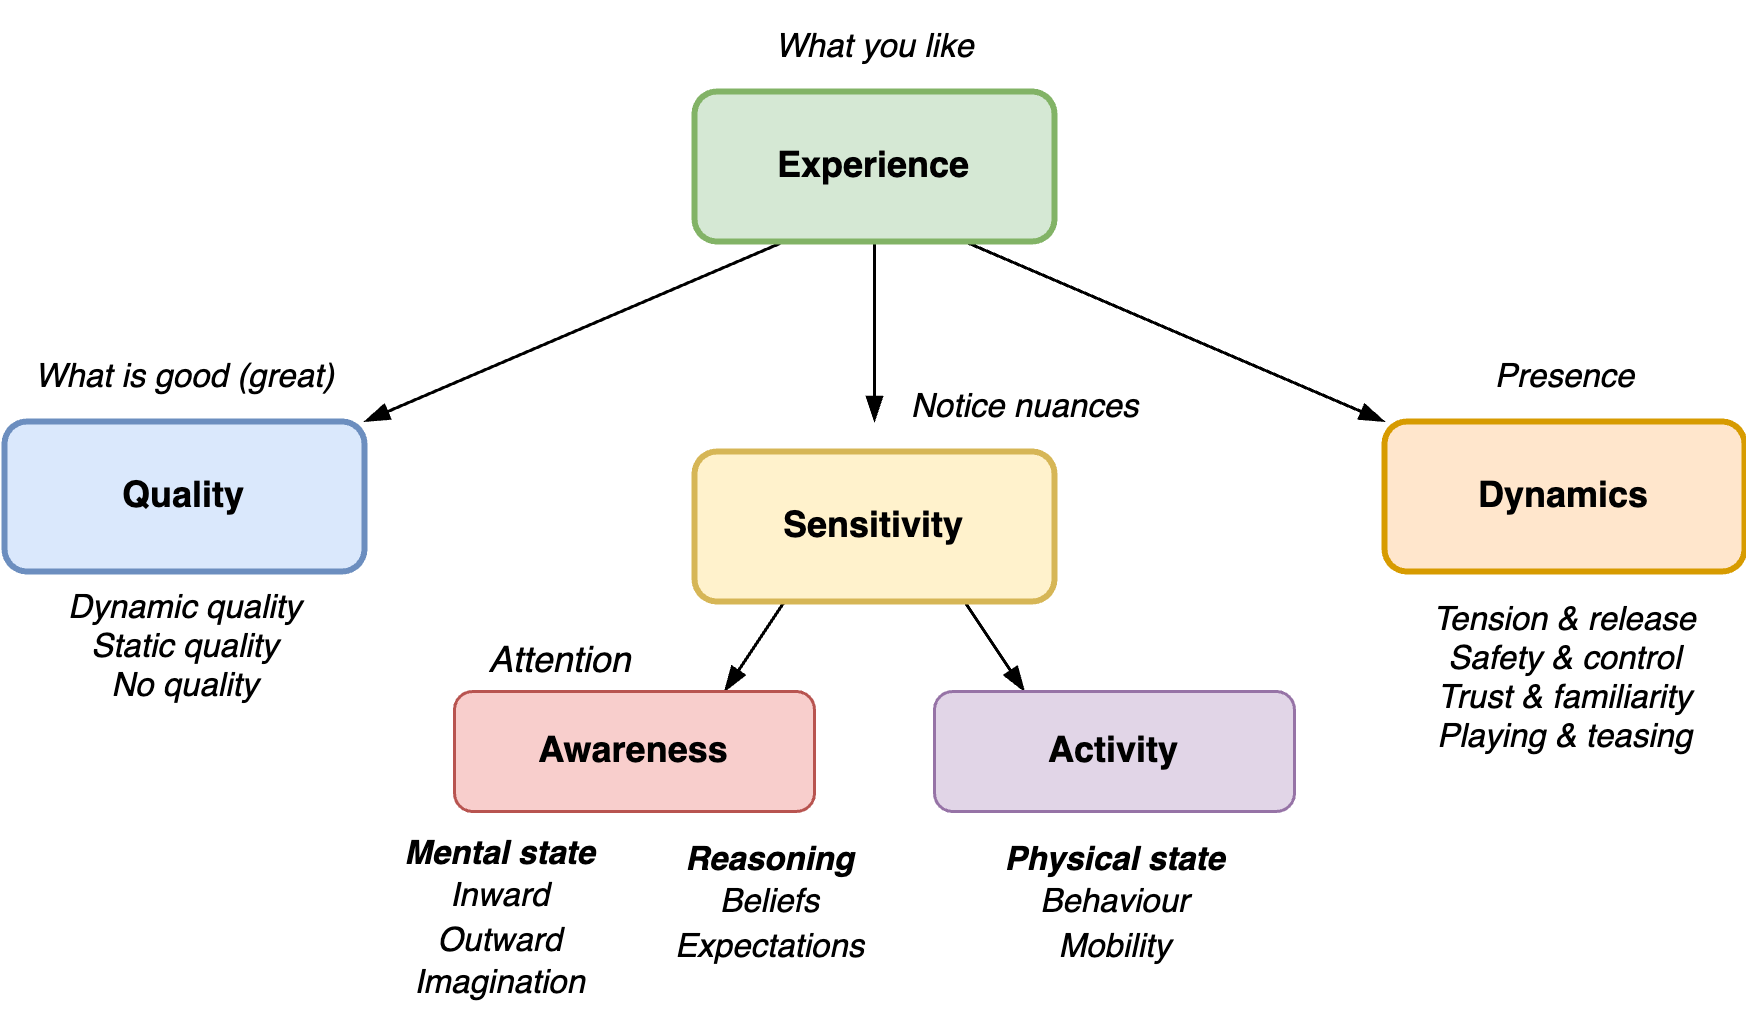
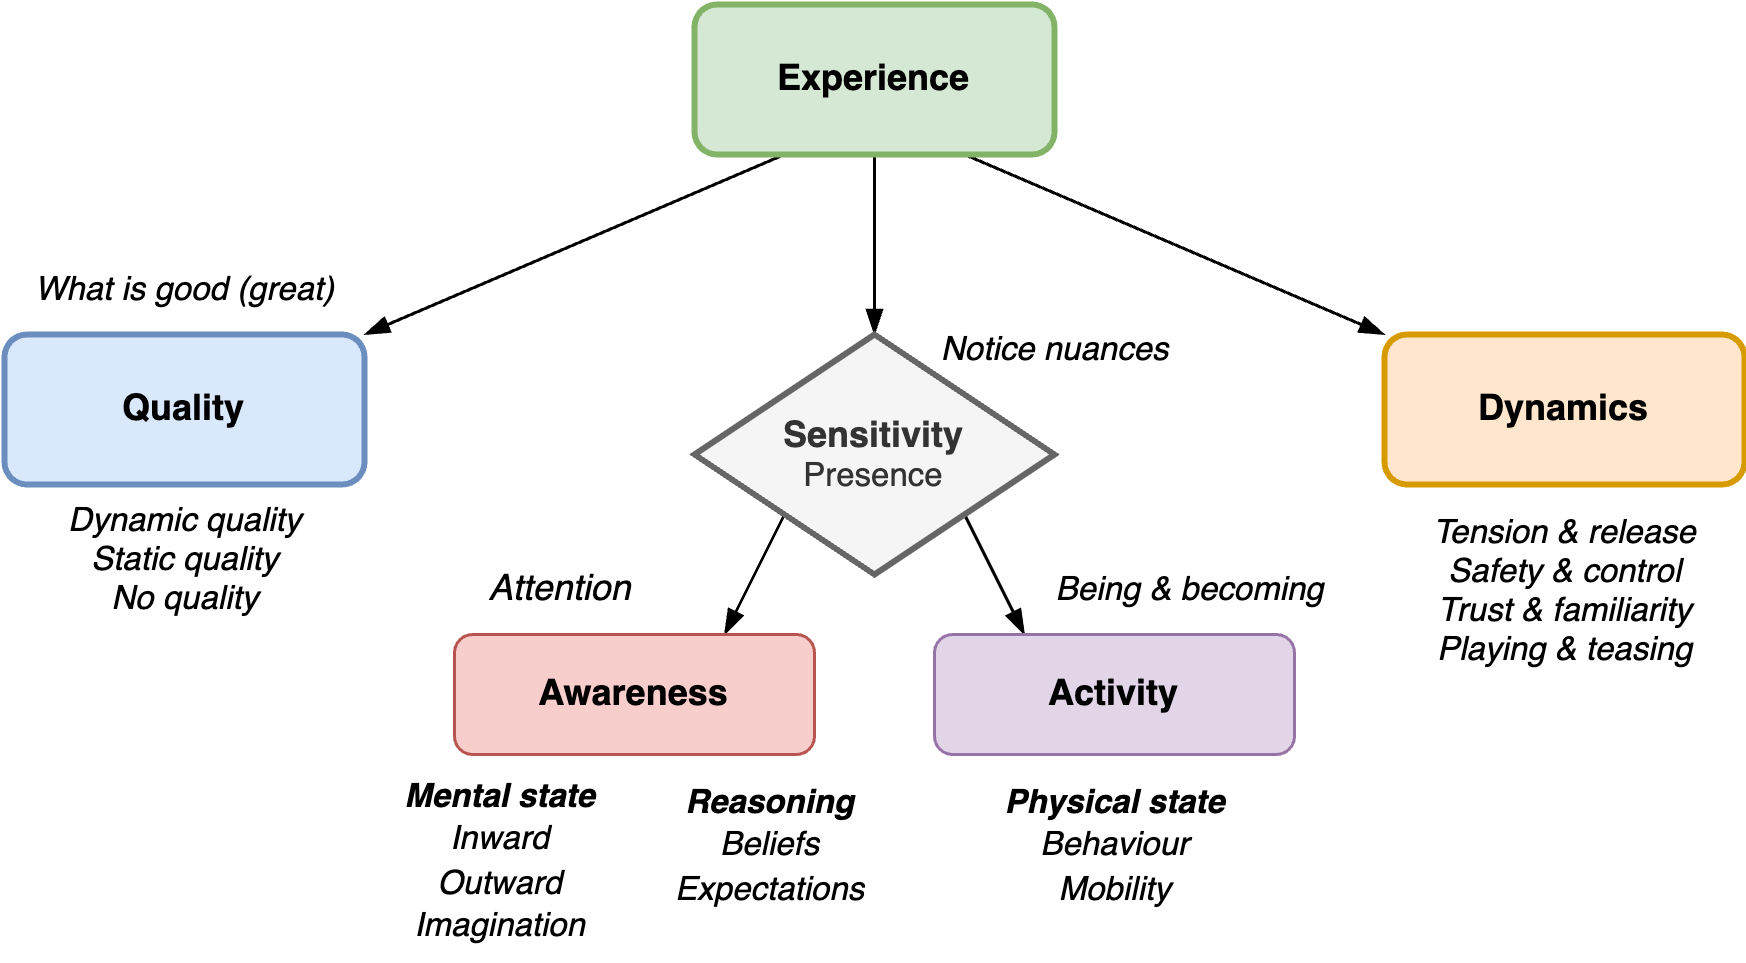
add models

diff --git a/subjects/experience.md b/subjects/experience.md
@@ -8,7 +8,7 @@ Subjects and agents have experience: *What it is like to be you.*
 
 ## Overview
 
-Experience of an agent consists of [attention](attention.md) and activity (behaviour). It is influenced by the dynamics of the environment.
+Experience is fundamentally dynamic. It's a verb: to experience. Experience of an agent consists of [attention](attention.md) and activity (behaviour). It is influenced by the dynamics of the environment.
 
 <img src="../img/tree-experience-quality-dynamics.png" alt="tree-experience-quality-dynamics" style="width:45em;" />
 
@@ -27,7 +27,17 @@ Experience exists in a context. [Identity](identity.md) drives [desire](desire.m
 
 ## Activity
 
-Experience is fundamentally dynamic. It's a verb: to experience. A first characteristic is the rate of change: being or becoming. This relates to the environment.
+Agents observe the environment and act on it. Activity starts with a signal: a disruption. The agents *decides* how to react. Reactions range from amplifying the signal to diffusing the signal. The former involves quick action, and the latter involves recovery.
+
+<img src="../img/experience-attention-acting.png" alt="experience-attention-acting" style="width:45em;" />
+
+For human-like agents this translates to reacting to sensations. Reactions ranges from acting on it to calming down.
+
+<img src="../img/reaction-wait-act.png" alt="experience-attention-acting" style="width:35em;" />
+
+### Being and Becoming
+
+A more nuanced model considers the following states: being and becoming. This relates to the environment.
 
 - Being involves self-expression and authenticity. Despite the environment.
 - Becoming involves adaptation, influence and control. Atuned to an (new) environment.

diff --git a/collaboration/social-dynamics.md b/collaboration/social-dynamics.md
@@ -76,10 +76,12 @@ Criticism
 [Wiki](https://en.wikipedia.org/wiki/Karpman_drama_triangle) A *reactive* defense mechanism. Three roles that reinforce each other. They can be genuine or played. The latter is associated with hidden expectations.
 
 1. Victim. Subject of problems. Something was taken from them, without their consent. Hence they seek justice. "Everything is so hard"
-2. Villain (persecutor). Indicator of problems. "It's all their fault!"
-3. Hero (rescuer). Solver of problems (symptoms).
+2. Villain (persecutor). Indicator of problems. Blame, judgingment, angry, authoritarian. *"It's all their fault!"*
+3. Hero (rescuer). Solver of problems (symptoms). Enabling. *"Let me help you."*
 
 Dyadic completion. If there is a victim, then the automatic response is to assign (blame) a villain.
+
+<img src="../img/map-immersion-agency.png" alt="map-immersion-agency" style="width:40em;" />
 
 
 
@@ -94,5 +96,4 @@ Dyadic completion. If there is a victim, then the automatic response is to assig
 | 💭 **Distracter** | Avoid conflict                   | Harmony > tension      |                  |
 | 🪷 **Placater**   | Apologize, pray                  | Aid > aggression       | "Please help me" |
 | 🤡 **Leveler**    | Downplay problems                | Peace > panic          | "Just be calm"   |
-
 

diff --git a/psychology/experience.md b/psychology/experience.md
@@ -78,7 +78,15 @@ Becoming can have many forms. The origin can be fear or desire. The attitude tow
 
 <img src="../img/map-becoming-assertiveness-mobilization.png" alt="map-becoming-assertiveness-mobilization" style="width:40em;" />
 
+People perceive the world differently. They can be present, distanced or overwhelmed. They can feel in control or helpless.
 
+There are three roles that form a [drama triangle](https://en.wikipedia.org/wiki/Karpman_drama_triangle). The villain blames others for problems. The victim is helpless and the hero saves the victim.
+
+<img src="../img/map-immersion-agency.png" alt="map-immersion-agency" style="width:40em;" />
+
+
+
+<img src="../img/map-attitude-agency.png" alt="map-attitude-agency" style="width:40em;" />
 
 
 
@@ -150,7 +158,7 @@ Immersion results in association. Feeling the feeling. The opposite is dissociat
 
 Resolving can be an avoidant strategy. See [emotions](emotions.md).
 
-![experience-attention-acting](../img/experience-attention-acting.png)
+
 
 <img src="../img/reaction-wait-act.png" alt="experience-attention-acting" style="width:35em;" />
 

diff --git a/collaboration/coaching-techniques.md b/collaboration/coaching-techniques.md
@@ -134,6 +134,18 @@ What do you feel?
 
 
 
+Dealing with sensitive / emotional topics. Don't start with investigation or solutioning.
+
+```
+RAIN
+1. Recognize. "This seems important to you."
+2. Allow. Let the coachee express it. Venting
+3. Investigate. Deconstruct it: events, feelings, needs.
+4. Move forward. Find ways to improve.
+```
+
+
+
 ### Exercises
 
 #### Constellation

diff --git a/guides/improve-a-team.md b/guides/improve-a-team.md
@@ -1,0 +1,13 @@
+# How to improve a team
+
+Practice
+
+- [Retrospectives](../collaboration/retrospectives.md)
+- [Team coaching](../collaboration/coaching-teams.md)
+- [Gardening](../collaboration/gardening.md)
+
+Theory
+
+- [Accountability](../collaboration/accountability.md)
+- [Teams](../collaboration/teams.md)
+- [Trust](../collaboration/trust.md)

diff --git a/collaboration/communication-styles.md b/collaboration/communication-styles.md
@@ -192,4 +192,4 @@ Levels of listening.
 
 2. Summarizing, **paraphrasing** and checking.
 3. Capture the **intent** behind a message, rather than the message itself.
-
+4. Strategic listening. Become aware of second-order effects.
